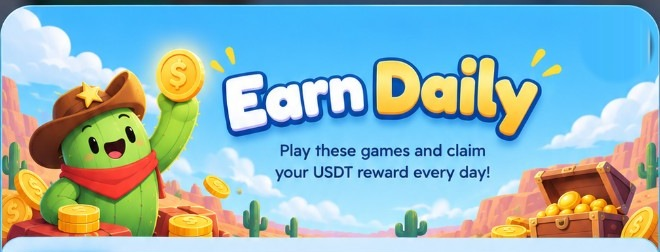
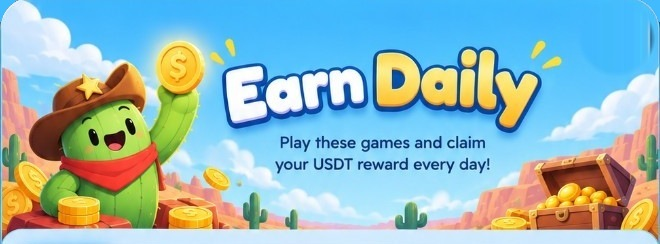
ssd

diff --git a/components/DailyEarnPopup.tsx b/components/DailyEarnPopup.tsx
@@ -11,7 +11,7 @@ import { useClaimUiOverlay } from "@/lib/use-ui-overlay-gate";
 import type { Game } from "@/types";
 
 export const DAILY_EARN_OVERLAY_ID = "daily-earn";
-const EARN_DAILY_BANNER = "/earn-daily-banner.jpg";
+const EARN_DAILY_BANNER = "/earn-daily-banner.jpg?v=2";
 const USDT_MARK = "/usdt-mark.svg";
 
 /** Three decimals so 0.012 never displays as 0.01. */
@@ -141,7 +141,7 @@ export default function DailyEarnPopup({
             src={EARN_DAILY_BANNER}
             alt=""
             width={660}
-            height={252}
+            height={244}
           />
           <h2 id="daily-earn-title" className="daily-earn__sr">
             Earn Daily
